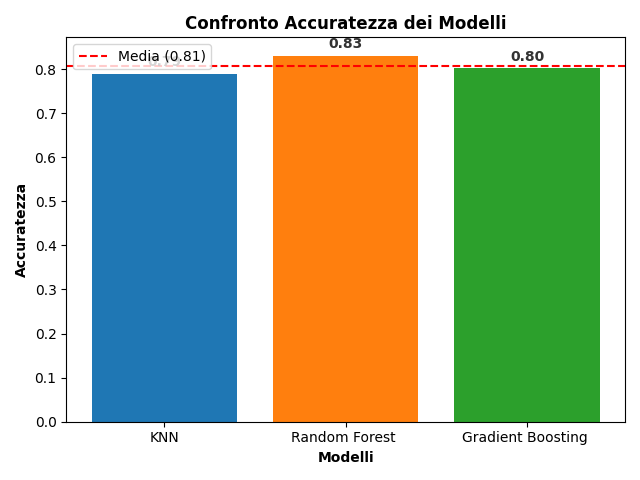
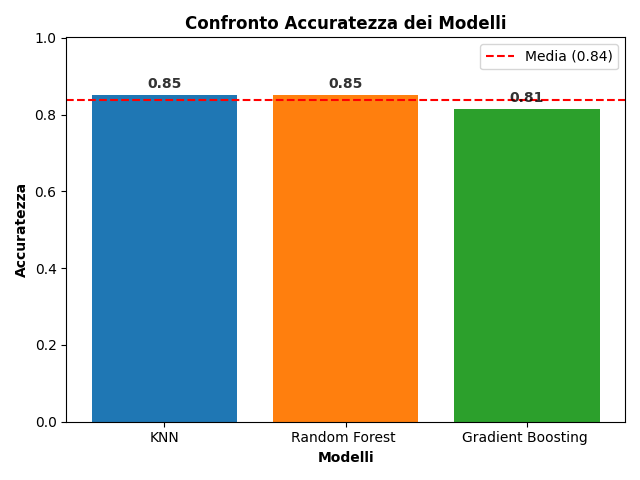
2nd test with random sampler ended

diff --git a/graph.py b/graph.py
@@ -331,7 +331,7 @@ def plot_corr_matrix(corr_matrix):
     plt.show()
 
 
-def plot_ensemble_accuracies(perc_clf, perc_reg):
+def plot_ensembles_common_accuracy(perc_clf, perc_reg):
     ind = [1, 2]  # Bar indexes
     accuracies = [perc_clf, perc_reg]  # Bar values
     labels = ['Classification', 'Regression']  # Labels
@@ -343,8 +343,8 @@ def plot_ensemble_accuracies(perc_clf, perc_reg):
         plt.title("Validation test Accuracy comparison")
 
     # Add labels to axes
-    plt.xlabel('Ensembles')
-    plt.ylabel('Accuracy')
+    plt.xlabel('Ensembles', fontweight='bold')
+    plt.ylabel('Accuracy', fontweight='bold')
 
     plt.ylim(0, 1)  # Set y-axis limits to reach up to 1
 
@@ -353,7 +353,7 @@ def plot_ensemble_accuracies(perc_clf, perc_reg):
         plt.text(i, acc, f"{acc:.2f}", ha='center', va='bottom', fontsize=12, fontweight='bold', color='black')
 
     plt.xticks(ind, ['Classification', 'Regression'])
-    plt.legend()
+    plt.legend(loc="lower right")
     plt.show()
 
     # Restore the default style
@@ -361,40 +361,30 @@ def plot_ensemble_accuracies(perc_clf, perc_reg):
 
 
 def plot_r2(r2_dict):
-    # Estrai i nomi dei modelli e i valori R2 dal dizionario
-    x_regressors = [x.replace("Regressor", "") for x in list(r2_dict.keys())]  # remove 'Regressor' from x labels
+    x_regressors = [x.replace("Regressor", "") for x in list(r2_dict.keys())]
     r2_values = list(r2_dict.values())
 
-    # Calcola la media dei valori R2
     mean_r2 = np.mean(r2_values)
-
-    # Colori per il grafico
     colors = ['#1f77b4', '#ff7f0e', '#2ca02c']
 
-    # Crea la figura e l'asse
     fig, ax = plt.subplots()
 
-    # Aggiungi l'istogramma
     ax.bar(x_regressors, r2_values, color=colors)
+    ax.set_ylim(0, max(r2_values) + 0.15)
 
-    # Aggiungi la linea media
     ax.axhline(y=mean_r2, color='red', linestyle='dashed', label=f'Media ({mean_r2:.2f})')
 
-    # Aggiungi le etichette dell'asse x e y con stile grassetto
     ax.set_xlabel('Modelli', fontweight='bold')
     ax.set_ylabel('Valore R2', fontweight='bold')
-    ax.set_title('Confronto R2 dei Modelli', fontweight='bold')
 
-    # Aggiungi le etichette sopra le barre con maggiore trasparenza
     for i, v in enumerate(r2_values):
         ax.text(i, v + 0.01, f'{v:.2f}', ha='center', va='bottom', fontsize=10, fontweight='bold', alpha=0.8)
 
-    # Aggiungi una legenda
-    ax.legend()
-
-    # Mostra il grafico
+    ax.legend(loc='best')
+    ax.set_title('Confronto R2 dei Modelli', fontweight='bold')
     plt.tight_layout()
     plt.show()
+
 
 
 def plot_accuracy(accuracy_dict):
@@ -414,7 +404,7 @@ def plot_accuracy(accuracy_dict):
 
     # Aggiungi l'istogramma
     ax.bar(x_classifiers, accuracy_values, color=colors)
-
+    ax.set_ylim(0, max(accuracy_values) + 0.15)
     # Aggiungi la linea media
     ax.axhline(y=mean_accuracy, color='red', linestyle='dashed', label=f'Media ({mean_accuracy:.2f})')
 
@@ -428,41 +418,12 @@ def plot_accuracy(accuracy_dict):
         ax.text(i, v + 0.01, f'{v:.2f}', ha='center', va='bottom', fontsize=10, fontweight='bold', alpha=0.8)
 
     # Aggiungi una legenda
-    ax.legend()
+    ax.legend(loc="best")
 
     # Mostra il grafico
     plt.tight_layout()
     plt.show()
 
-
-def plot_r2b(scores_dict):
-    plt.figure(figsize=(10, 6))
-
-    # Estrai i nomi dei modelli e i valori di R2 dal dizionario
-    models = list(scores_dict.keys())
-    r2_scores = list(scores_dict.values())
-
-    # Crea il grafico a barre
-    bars = plt.bar(models, r2_scores, color='lightblue')
-
-    # Aggiungi le etichette dei valori sopra le barre
-    for bar in bars:
-        height = bar.get_height()
-        plt.annotate(f'{height:.3f}', xy=(bar.get_x() + bar.get_width() / 2, height),
-                     xytext=(0, 3), textcoords='offset points',
-                     ha='center', va='bottom')
-
-    # Aggiungi le griglie di sfondo meno evidenti
-    plt.grid(color='lightgray', linestyle='dashed', linewidth=0.5, alpha=0.5)
-
-    # Imposta le etichette degli assi e il titolo del grafico
-    plt.xlabel('Modelli')
-    plt.ylabel('R2 Score')
-    plt.title('Confronto R2 Score per Modelli di Regressione')
-
-    # Mostra il grafico
-    plt.tight_layout()
-    plt.show()
 
 
 if __name__ == "__main__":
@@ -523,7 +484,7 @@ if __name__ == "__main__":
     plot_prediction_differences(y_clf_pred, y_reg_pred)
     plot_error_by_class(y_test, y_clf_pred, y_reg_pred)
     plot_bar_ground_vs_predict(y_test, y_clf_pred, y_reg_pred)
-    plot_ensemble_accuracies(reg_clf, reg_acc)
+    plot_ensembles_common_accuracy(reg_clf, reg_acc)
     plot_confusion_matrix(targets=y_test, predictions=y_clf_pred, title="Confusion matrix - Classification",
                           classes=np.unique(y_test))
     plot_confusion_matrix(targets=y_test, predictions=y_reg_pred, title="Confusion matrix - Regression",
